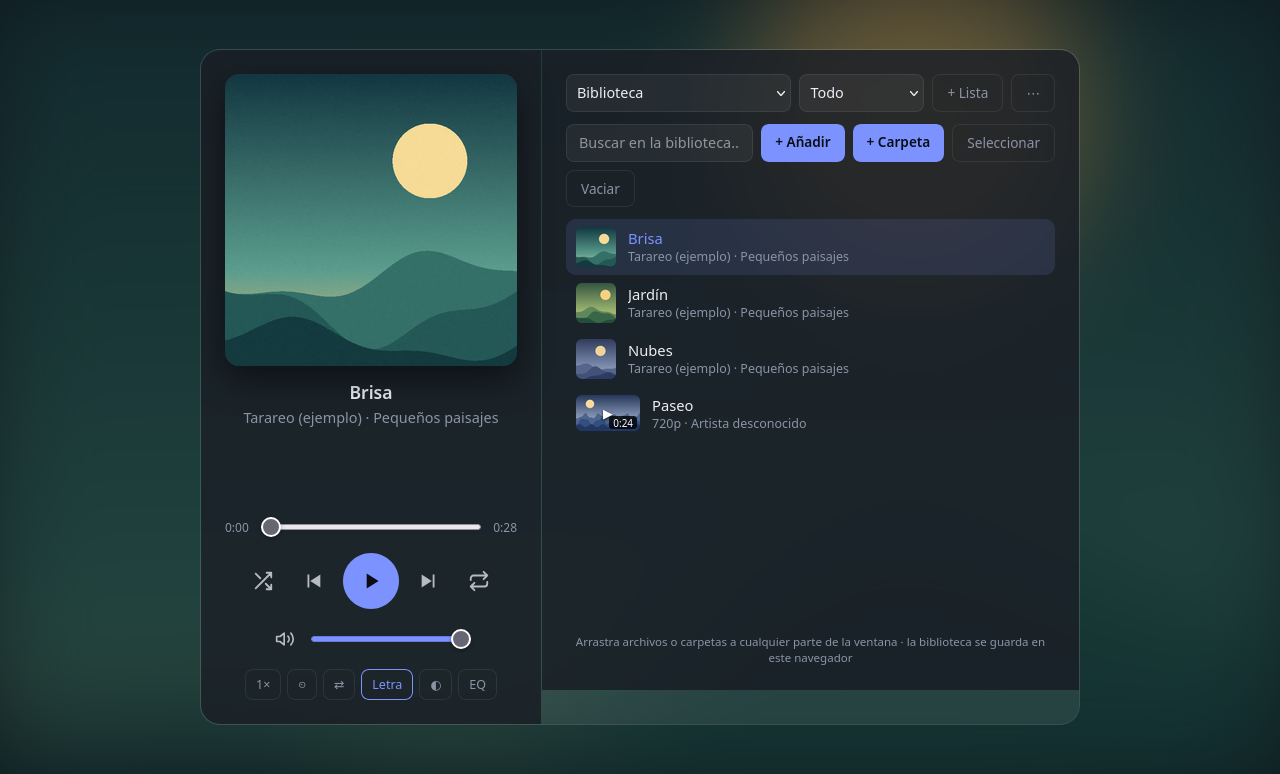
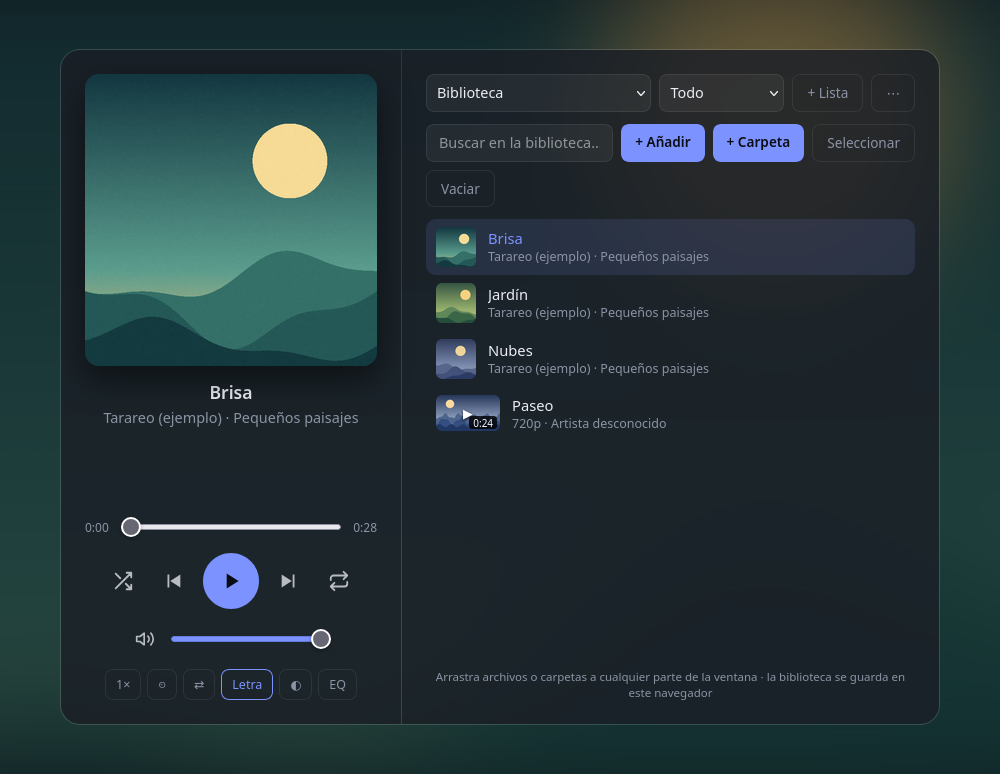
Repartir las capturas del README

diff --git a/README.md b/README.md
@@ -18,25 +18,38 @@
   <a href="https://fabricioct-user.github.io/tarareo/"><img src="https://img.shields.io/badge/Probar_con_ejemplos-demo_web-1f6feb?style=for-the-badge" alt="Probar con ejemplos"></a>
 </p>
 
-## Capturas
-
-![Captura de la biblioteca](docs/img/biblioteca.png)
-
-![Captura de la letra sincronizada](docs/img/letra.png)
-
-![Captura de la reproducción de video](docs/img/video.png)
+<p align="center">
+  <img src="docs/img/biblioteca.png" width="760" alt="Biblioteca de Tarareo con una canción abierta">
+</p>
 
 ## Funciones
 
 - **Biblioteca** que se guarda en el navegador: añade archivos, carpetas enteras (con subcarpetas) o arrástralos a la ventana. Búsqueda y orden arrastrando.
-- **Audio** en MP3, FLAC, Ogg Vorbis, Opus, M4A y WAV; **video** en MP4, WebM, MKV y MOV, según los códecs que soporte tu navegador o Electron.
 - **Listas** con nombre, cola de reproducción y exportación o importación en JSON o M3U8.
-- **Fundido** entre canciones, temporizador de apagado, ecualizador de 10 bandas y velocidad de 0,5× a 2× sin cambiar el tono.
-- **Letras sincronizadas**, incrustadas o en archivos `.lrc`. Pulsa una línea para saltar a ella.
-- **Etiquetas**: edita título, artista, álbum y carátula de una o varias pistas. Los originales no se modifican; puedes descargar una copia con las etiquetas escritas (MP3 y FLAC).
-- **Video**: pantalla completa, imagen en imagen, subtítulos SRT y WebVTT, y miniaturas.
-- **App de escritorio**: se abre con «Abrir con…» y enlaza los videos sin copiarlos.
+- **App de escritorio:** se abre con «Abrir con…» y enlaza los videos sin copiarlos.
 - **Instalable** como app web (PWA), con tema claro u oscuro, y funciona sin conexión.
+
+### Música
+
+<img src="docs/img/letra.png" width="260" align="right" alt="Letra sincronizada con la línea actual resaltada">
+
+- MP3, FLAC, Ogg Vorbis, Opus, M4A y WAV.
+- **Letras sincronizadas**, incrustadas o en archivos `.lrc`. Pulsa una línea para saltar a ella.
+- **Fundido** entre canciones, temporizador de apagado, ecualizador de 10 bandas y velocidad de 0,5× a 2× sin cambiar el tono.
+- **Etiquetas:** edita título, artista, álbum y carátula de una o varias pistas. Los originales no se modifican; puedes descargar una copia con las etiquetas escritas (MP3 y FLAC).
+
+<br clear="both">
+
+### Video
+
+<img src="docs/img/video.png" width="260" align="left" alt="Video con subtítulos en el reproductor">
+
+- MP4, WebM, MKV y MOV, según los códecs que soporte tu navegador o Electron.
+- **Subtítulos** SRT y WebVTT, que puedes adelantar o retrasar.
+- **Pantalla completa** e **imagen en imagen**.
+- **Miniaturas** de los videos en la biblioteca.
+
+<br clear="both">
 
 ## Instalación
 
